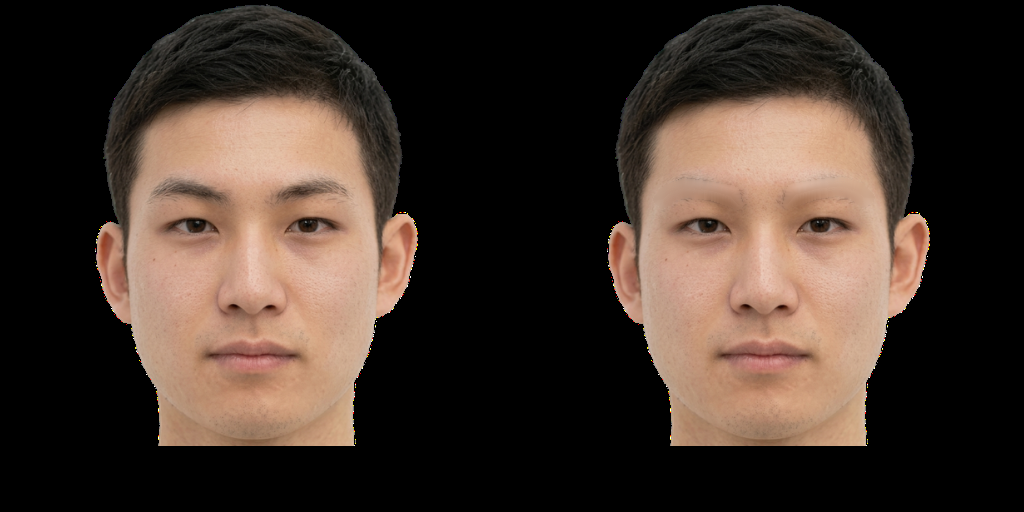
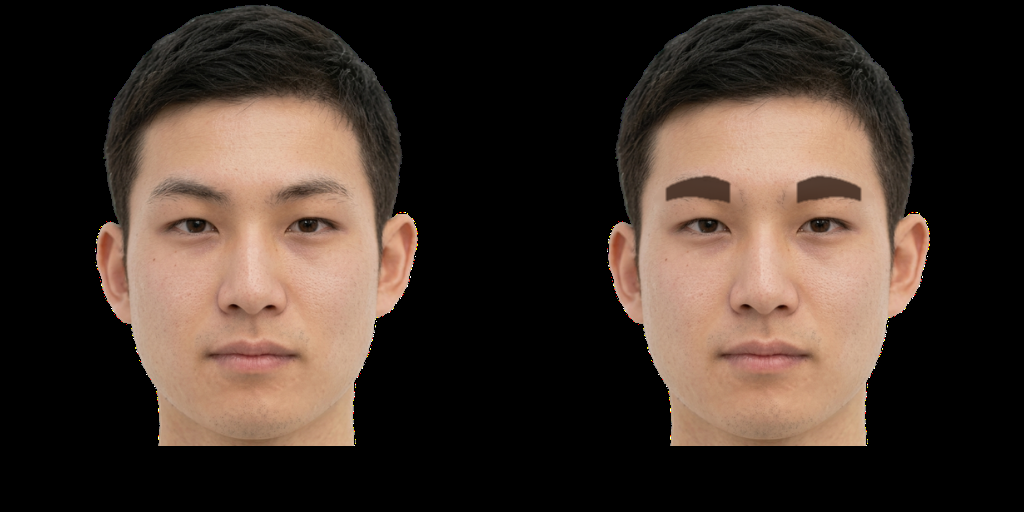
feat: 眉描画機能を実装 (7タイプ + 色調整)
EYEBROW_TYPES.md の設計に基づいて眉描画を実装:

1. compute_brow_anchors: 眉頭/眉尻の基準点を計算
   - 眉頭: 小鼻外縁(64/294)の真上
   - 眉尻: 小鼻-目尻(33/263)の延長線上
   - センターY: eye_top - eye_h * 1.86 (実測ベース)

2. generate_brow_polygon: センターラインをBezier曲線で生成し
   上下に ±thickness/2 で対称展開 + taper で先端を細く

3. 7つの眉タイプを定義 (EYEBROW_TYPES dict):
   - straight (ストレート眉)
   - parallel_thick (並行太眉)
   - natural_arch (ナチュラルアーチ・デフォルト)
   - arch (アーチ眉)
   - angular (角度眉)
   - short_thick (短め太眉)
   - long_arch (長めアーチ)

4. draw_eyebrows: 色/強度指定で眉を描画
5. apply_eyebrow_makeup: 消し → 描画 をまとめて実行

CLI:
  --type {straight|parallel_thick|natural_arch|arch|angular|short_thick|long_arch}
  --color R G B (default: 60 40 30 ダークブラウン)
  --intensity 0-1 (default: 0.85)
  --no-draw (眉消しのみ)
  --list-types

https://claude.ai/code/session_01DrQrG5SarFHcMqwHeQoVJp

Changed region(s): [[0.625, 0.3438, 0.7188, 0.4062], [0.7812, 0.3438, 0.8438, 0.4062]]

diff --git a/loadmap/1-virtual-makeup/1-5-eyebrow/main.py b/loadmap/1-virtual-makeup/1-5-eyebrow/main.py
@@ -2,24 +2,35 @@
 1.5 眉メイク - 眉を消して新しい眉を描画する
 
 Phase 1: 眉消し
-  - ランドマークからスムーズなポリゴンマスクを生成（メッシュ不使用）
+  - ランドマークからスムーズなポリゴンマスクを生成
   - cv2.inpaint TELEA（大きめradius）で自然に補完
 
-Phase 2: 眉描画（今後実装）
-  - 消した上に新しい眉を描画
+Phase 2: 眉描画
+  - 3大ポイント（眉頭・眉山・眉尻）を顔ランドマークから計算
+  - 眉タイプ（7種類）に応じたBezier曲線でポリゴン生成
+  - 色/強度を調整してソフトに描画
 
 Usage:
     python main.py <input_image> [options]
 
 Examples:
-    # 眉を消す（デフォルト）
+    # 眉を消してナチュラルアーチを描画（デフォルト）
     python main.py photo.jpg
 
-    # 出力ファイル指定
-    python main.py photo.jpg -o output.png
+    # 眉タイプを指定
+    python main.py photo.jpg --type angular
+
+    # 色を変更 (R G B)
+    python main.py photo.jpg --color 60 30 20
+
+    # 眉消しのみ（描画しない）
+    python main.py photo.jpg --no-draw
 
     # 眉元ズーム表示
     python main.py photo.jpg --zoom
+
+    # タイプ一覧
+    python main.py photo.jpg --list-types
 """
 
 import argparse
@@ -113,6 +124,287 @@ def erase_eyebrows(
     return result
 
 
+# =========================================================
+# 眉描画 (Phase 2)
+# =========================================================
+
+# 眉タイプ定義
+# EYEBROW_TYPES.md を参照
+EYEBROW_TYPES = {
+    "straight": {
+        "peak_position": 0.5,
+        "peak_height_ratio": 0.0,
+        "tail_height_ratio": 0.0,
+        "thickness_ratio": 1.9,
+        "length_ratio": 1.0,
+        "desc": "ストレート眉（若々しい・韓流）",
+    },
+    "parallel_thick": {
+        "peak_position": 0.5,
+        "peak_height_ratio": 0.15,
+        "tail_height_ratio": 0.0,
+        "thickness_ratio": 1.9,
+        "length_ratio": 1.0,
+        "desc": "並行太眉（ナチュラル・男らしい）",
+    },
+    "natural_arch": {
+        "peak_position": 0.65,
+        "peak_height_ratio": 0.35,
+        "tail_height_ratio": 0.1,
+        "thickness_ratio": 1.6,
+        "length_ratio": 1.0,
+        "desc": "ナチュラルアーチ（知的・バランス）",
+    },
+    "arch": {
+        "peak_position": 0.65,
+        "peak_height_ratio": 0.55,
+        "tail_height_ratio": 0.2,
+        "thickness_ratio": 1.5,
+        "length_ratio": 1.0,
+        "desc": "アーチ眉（上品・標準）",
+    },
+    "angular": {
+        "peak_position": 0.6,
+        "peak_height_ratio": 0.75,
+        "tail_height_ratio": 0.3,
+        "thickness_ratio": 1.5,
+        "length_ratio": 1.0,
+        "desc": "角度眉（シャープ・クール）",
+    },
+    "short_thick": {
+        "peak_position": 0.5,
+        "peak_height_ratio": 0.08,
+        "tail_height_ratio": 0.0,
+        "thickness_ratio": 2.2,
+        "length_ratio": 0.85,
+        "desc": "短め太眉（ワイルド・強い）",
+    },
+    "long_arch": {
+        "peak_position": 0.7,
+        "peak_height_ratio": 0.4,
+        "tail_height_ratio": 0.25,
+        "thickness_ratio": 1.3,
+        "length_ratio": 1.1,
+        "desc": "長めアーチ（大人・クール）",
+    },
+}
+
+# デフォルト設定
+DEFAULT_EYEBROW_TYPE = "natural_arch"
+DEFAULT_EYEBROW_COLOR_RGB = (60, 40, 30)  # ダークブラウン
+DEFAULT_EYEBROW_INTENSITY = 0.85
+
+
+def compute_brow_anchors(fm: FaceMesh, side: str = "right") -> dict:
+    """眉の基準点（眉頭・眉尻）と関連値を計算
+
+    ルール:
+    - 眉頭: 小鼻外縁の真上、眉のセンターライン上
+    - 眉尻: 小鼻-目尻を結ぶ直線の延長上、眉頭と同じY座標
+    - 眉のセンターライン Y: eye_top - eye_height * 1.86 (実測ベース)
+    """
+    if side == "right":
+        nose_wing = fm.landmarks_px[64].astype(float)
+        inner_eye = fm.landmarks_px[133].astype(float)
+        outer_eye = fm.landmarks_px[33].astype(float)
+        eye_top = fm.landmarks_px[159].astype(float)
+        eye_bot = fm.landmarks_px[145].astype(float)
+    else:
+        nose_wing = fm.landmarks_px[294].astype(float)
+        inner_eye = fm.landmarks_px[362].astype(float)
+        outer_eye = fm.landmarks_px[263].astype(float)
+        eye_top = fm.landmarks_px[386].astype(float)
+        eye_bot = fm.landmarks_px[374].astype(float)
+
+    eye_height = abs(eye_top[1] - eye_bot[1])
+
+    # 眉頭: 小鼻外縁の真上、眉センターラインの高さ
+    head_x = nose_wing[0]
+    head_y = eye_top[1] - eye_height * 1.86
+
+    # 眉尻: 小鼻-目尻の延長線上で Y == head_y となる点
+    dx = outer_eye[0] - nose_wing[0]
+    dy = outer_eye[1] - nose_wing[1]
+    if abs(dy) < 1e-3:
+        tail_x = outer_eye[0] + (outer_eye[0] - inner_eye[0]) * 0.3
+        tail_y = head_y
+    else:
+        t = (head_y - nose_wing[1]) / dy
+        tail_x = nose_wing[0] + t * dx
+        tail_y = head_y
+
+    return {
+        "head": np.array([head_x, head_y], dtype=np.float64),
+        "tail": np.array([tail_x, tail_y], dtype=np.float64),
+        "eye_height": eye_height,
+        "brow_length": abs(tail_x - head_x),
+        "side": side,
+    }
+
+
+def _quadratic_bezier(p0: np.ndarray, p1: np.ndarray, p2: np.ndarray,
+                     n: int = 32) -> np.ndarray:
+    """二次Bezier曲線を n 点でサンプリング"""
+    ts = np.linspace(0, 1, n)
+    points = np.zeros((n, 2))
+    for i, t in enumerate(ts):
+        points[i] = (1 - t) ** 2 * p0 + 2 * (1 - t) * t * p1 + t ** 2 * p2
+    return points
+
+
+def _solve_bezier_control(p0: np.ndarray, pm: np.ndarray, p2: np.ndarray,
+                         t: float) -> np.ndarray:
+    """パラメータ t の位置で pm を通過する二次Bezier曲線の制御点 P1 を求める
+
+    B(t) = (1-t)^2 * P0 + 2(1-t)t * P1 + t^2 * P2 = pm
+    → P1 = (pm - (1-t)^2 * P0 - t^2 * P2) / (2(1-t)t)
+    """
+    if t <= 0 or t >= 1:
+        return (p0 + p2) / 2
+    return (pm - (1 - t) ** 2 * p0 - t ** 2 * p2) / (2 * (1 - t) * t)
+
+
+def _taper(t: float) -> float:
+    """眉の太さをtで調整（眉頭・眉尻が細くなる自然な形）
+
+    t=0(頭): 0.85倍
+    t=0.3: 1.0倍（最大）
+    t=1(尻): 0.55倍
+    """
+    if t < 0.3:
+        # 頭から最大へ: 0.85 → 1.0
+        return 0.85 + (t / 0.3) * 0.15
+    else:
+        # 最大から尻へ: 1.0 → 0.55
+        s = (t - 0.3) / 0.7
+        return 1.0 - s * 0.45
+
+
+def generate_brow_polygon(anchors: dict, brow_type: str) -> np.ndarray:
+    """眉タイプに応じた上下ラインを生成してポリゴン頂点列を返す
+
+    アプローチ:
+    1. センターライン（眉の中心線）をBezier曲線で生成
+       head → peak(上にズレる) → tail
+    2. 各センター点の上下に thickness/2 ずらして上辺/下辺を作成
+    3. taper で先端を細く
+
+    返り値: (N*2, 2) のint32配列（上辺N点 + 下辺N点逆順）
+    """
+    params = EYEBROW_TYPES[brow_type]
+
+    head = anchors["head"].copy()
+    tail = anchors["tail"].copy()
+    eye_h = anchors["eye_height"]
+
+    # 長さ調整（尻を head→tail 方向に伸縮）
+    length_ratio = params["length_ratio"]
+    if length_ratio != 1.0:
+        tail = head + (tail - head) * length_ratio
+
+    # 眉尻の高さ調整（センターを下げる）
+    tail[1] += eye_h * params["tail_height_ratio"]
+
+    # 眉山: センターラインの上に盛り上がる
+    peak_t = params["peak_position"]
+    peak_x = head[0] + (tail[0] - head[0]) * peak_t
+    peak_y = head[1] - eye_h * params["peak_height_ratio"]
+    peak = np.array([peak_x, peak_y])
+
+    # センターライン（Bezier曲線）
+    n = 40
+    p1 = _solve_bezier_control(head, peak, tail, peak_t)
+    center_line = _quadratic_bezier(head, p1, tail, n=n)
+
+    # 太さ
+    base_thickness = eye_h * params["thickness_ratio"]
+
+    # 上下辺をセンターラインから ±thickness/2 でtaper
+    upper = np.zeros_like(center_line)
+    lower = np.zeros_like(center_line)
+    ts = np.linspace(0, 1, n)
+    for i, t in enumerate(ts):
+        half_thick = base_thickness * 0.5 * _taper(t)
+        upper[i] = center_line[i] + np.array([0, -half_thick])  # 上(Y小)
+        lower[i] = center_line[i] + np.array([0, +half_thick])  # 下(Y大)
+
+    # ポリゴン頂点列（上辺 → 下辺逆順）
+    polygon = np.vstack([upper, lower[::-1]])
+    return polygon.astype(np.int32)
+
+
+def build_brow_mask(fm: FaceMesh, w: int, h: int, brow_type: str) -> np.ndarray:
+    """両眉のマスクを生成（float32, 0-1）"""
+    mask = np.zeros((h, w), dtype=np.float32)
+
+    for side in ["right", "left"]:
+        anchors = compute_brow_anchors(fm, side=side)
+        polygon = generate_brow_polygon(anchors, brow_type)
+        cv2.fillPoly(mask, [polygon], 1.0)
+
+    return mask
+
+
+def draw_eyebrows(
+    image: np.ndarray,
+    fm: FaceMesh,
+    brow_type: str = DEFAULT_EYEBROW_TYPE,
+    color_rgb: tuple = DEFAULT_EYEBROW_COLOR_RGB,
+    intensity: float = DEFAULT_EYEBROW_INTENSITY,
+    edge_blur: float = 1.0,
+) -> np.ndarray:
+    """眉を描画する（眉消し済み画像が前提）
+
+    Args:
+        image: 眉消し済み画像 (BGR)
+        fm: FaceMesh
+        brow_type: 眉タイプ名 (EYEBROW_TYPES のキー)
+        color_rgb: 眉の色 (R, G, B)
+        intensity: 描画強度 0-1
+        edge_blur: エッジのブラー倍率
+    """
+    if brow_type not in EYEBROW_TYPES:
+        raise ValueError(f"Unknown brow type: {brow_type}. Available: {list(EYEBROW_TYPES.keys())}")
+
+    h, w = image.shape[:2]
+    face_h = np.linalg.norm(
+        fm.landmarks_px[10].astype(float) - fm.landmarks_px[152].astype(float)
+    )
+
+    # 眉マスク生成
+    mask = build_brow_mask(fm, w, h, brow_type)
+
+    # エッジをソフトに
+    blur_ksize = max(3, int(face_h * 0.008 * edge_blur))
+    if blur_ksize % 2 == 0:
+        blur_ksize += 1
+    soft_mask = gaussian_blur_mask(mask, blur_ksize)
+
+    # 色を適用（BGRに変換）
+    color_bgr = np.array([color_rgb[2], color_rgb[1], color_rgb[0]], dtype=np.float32)
+    alpha = (soft_mask * intensity)[..., np.newaxis]
+
+    # src * (1 - a) + color * a でブレンド
+    src_f = image.astype(np.float32)
+    color_layer = np.broadcast_to(color_bgr, src_f.shape)
+    result = src_f * (1.0 - alpha) + color_layer * alpha
+    return np.clip(result, 0, 255).astype(np.uint8)
+
+
+def apply_eyebrow_makeup(
+    image: np.ndarray,
+    fm: FaceMesh,
+    brow_type: str = DEFAULT_EYEBROW_TYPE,
+    color_rgb: tuple = DEFAULT_EYEBROW_COLOR_RGB,
+    intensity: float = DEFAULT_EYEBROW_INTENSITY,
+) -> np.ndarray:
+    """眉消し → 新しい眉を描画 をまとめて実行"""
+    erased = erase_eyebrows(image, fm)
+    drawn = draw_eyebrows(erased, fm, brow_type=brow_type,
+                          color_rgb=color_rgb, intensity=intensity)
+    return drawn
+
+
 def crop_eyebrow_region(image: np.ndarray, fm: FaceMesh, margin_ratio: float = 0.4):
     """両眉周辺をクロップ"""
     h, w = image.shape[:2]
@@ -147,15 +439,36 @@ def make_zoom_comparison(before: np.ndarray, after: np.ndarray, fm: FaceMesh) ->
 
 def main():
     parser = argparse.ArgumentParser(description="眉消し＆眉メイク")
-    parser.add_argument("input", help="入力画像パス")
+    parser.add_argument("input", nargs="?", help="入力画像パス")
     parser.add_argument("-o", "--output", help="出力画像パス (default: eyebrow_result.png)")
+    parser.add_argument("-t", "--type", default=DEFAULT_EYEBROW_TYPE,
+                        choices=list(EYEBROW_TYPES.keys()),
+                        help=f"眉タイプ (default: {DEFAULT_EYEBROW_TYPE})")
+    parser.add_argument("--color", nargs=3, type=int, metavar=("R", "G", "B"),
+                        default=list(DEFAULT_EYEBROW_COLOR_RGB),
+                        help=f"眉の色 RGB (default: {DEFAULT_EYEBROW_COLOR_RGB})")
+    parser.add_argument("--intensity", type=float, default=DEFAULT_EYEBROW_INTENSITY,
+                        help=f"描画強度 0-1 (default: {DEFAULT_EYEBROW_INTENSITY})")
+    parser.add_argument("--no-draw", action="store_true",
+                        help="眉消しのみ（新しい眉を描画しない）")
     parser.add_argument("--blur", type=float, default=1.0,
                         help="マスクブラー倍率 (default: 1.0)")
     parser.add_argument("--imgonly", action="store_true",
                         help="結果画像のみ (比較画像なし)")
     parser.add_argument("--zoom", action="store_true",
                         help="眉元ズームの比較画像を出力")
+    parser.add_argument("--list-types", action="store_true",
+                        help="眉タイプ一覧を表示")
     args = parser.parse_args()
+
+    if args.list_types:
+        print("利用可能な眉タイプ:")
+        for name, params in EYEBROW_TYPES.items():
+            print(f"  {name:16s} - {params['desc']}")
+        return
+
+    if not args.input:
+        parser.error("input image is required")
 
     image = cv2.imread(args.input)
     if image is None:
@@ -173,6 +486,15 @@ def main():
 
     print("眉消し処理中...")
     output = erase_eyebrows(image, fm, blur_scale=args.blur)
+
+    if not args.no_draw:
+        print(f"眉描画中... type={args.type}, color={tuple(args.color)}, intensity={args.intensity}")
+        output = draw_eyebrows(
+            output, fm,
+            brow_type=args.type,
+            color_rgb=tuple(args.color),
+            intensity=args.intensity,
+        )
 
     out_path = args.output or "eyebrow_result.png"
     if args.imgonly:
